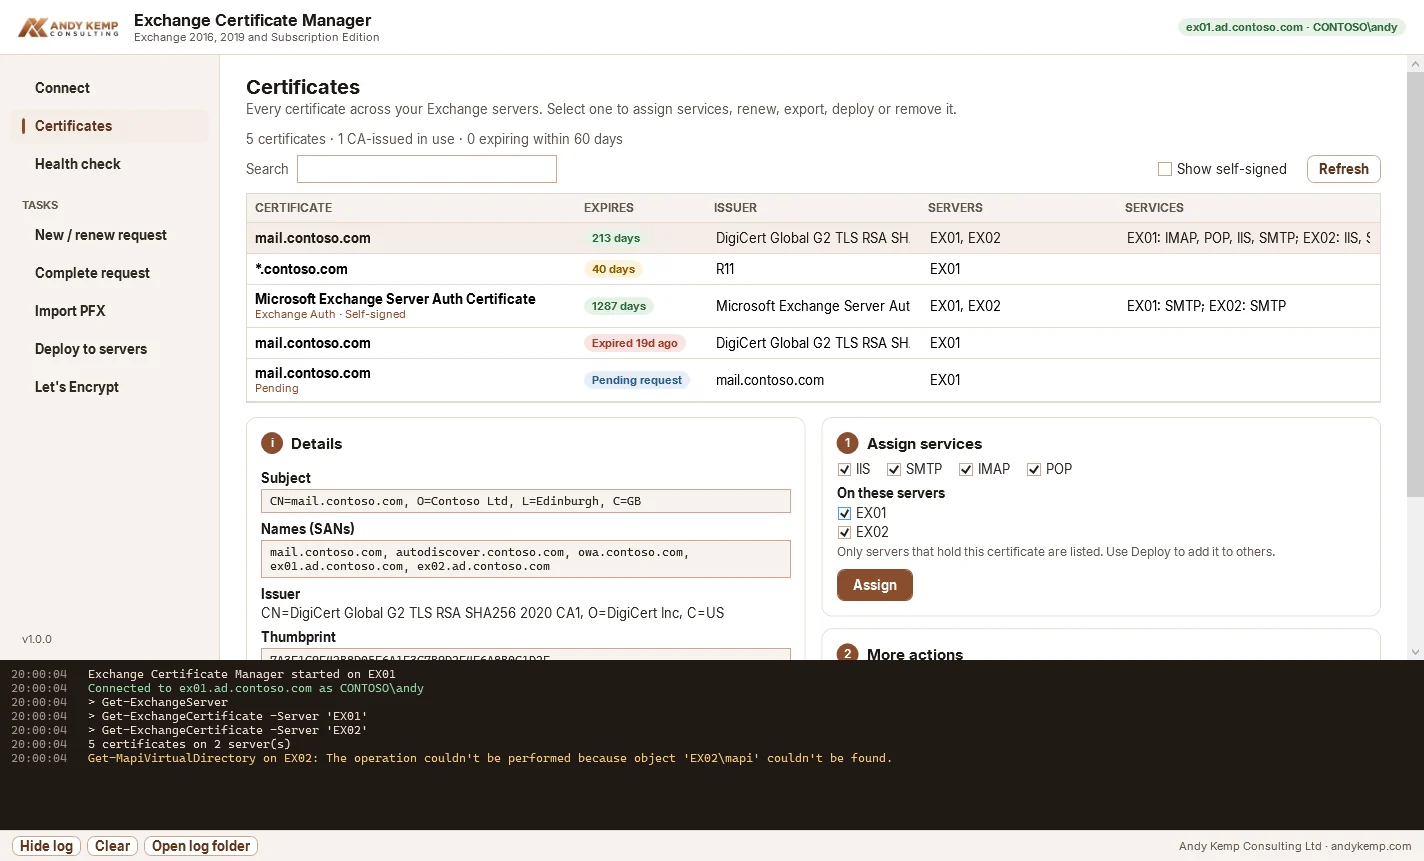
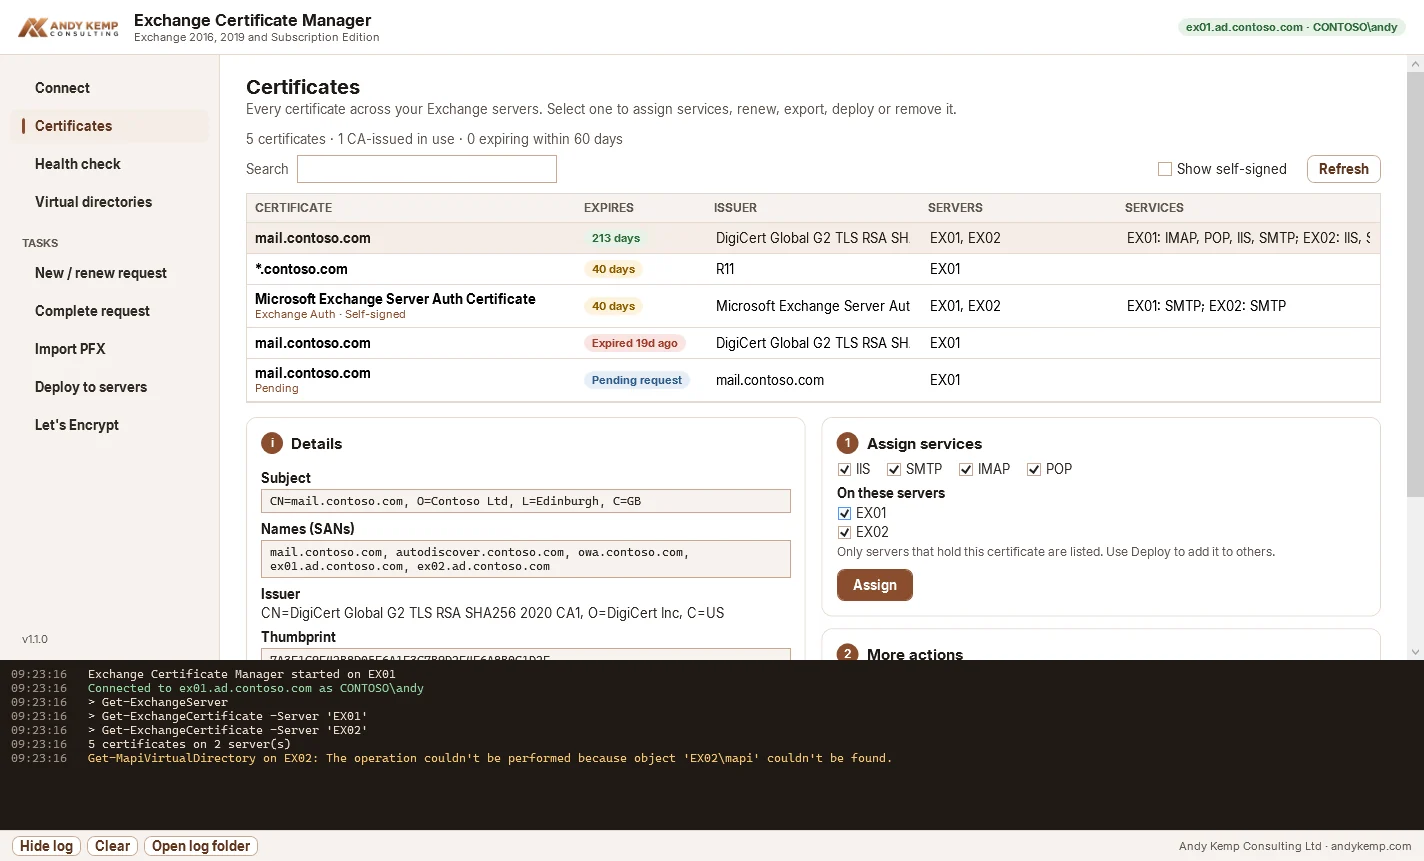
README: v1.1 screenshots and features
Claude-Session: https://claude.ai/code/session_01KiE5Do7reB3Uta9CMD2Ea9

diff --git a/README.md b/README.md
@@ -14,16 +14,17 @@ Docs: [docs.andykemp.com/exchange-cert-manager](https://docs.andykemp.com/exchan
 |---|---|
 | **Connect** | Kerberos sign-in as your current Windows account (or another account). Detects when it's running on an Exchange server and pre-fills it. Works from a domain-joined admin machine too. |
 | **Certificates** | Every certificate across every Exchange server, grouped by thumbprint: names, issuer, expiry, which servers hold it and which services each has. Assign services, renew, export PFX, deploy or remove. |
-| **Health check** | Expiring certificates in use, the **Exchange Auth (OAuth) certificate**, whether the IIS certificate's SANs cover every URL configured on the virtual directories / Outlook Anywhere / Autodiscover, connectors whose `TlsCertificateName` points at a certificate that's gone (the classic hybrid break), servers missing a certificate the others have, and clean-up candidates. |
+| **Health check** | Expiring certificates in use, the **Exchange Auth (OAuth) certificate**, whether the IIS certificate's SANs cover every URL configured on the virtual directories / Outlook Anywhere / Autodiscover, connectors whose `TlsCertificateName` points at a certificate that's gone (the classic hybrid break), servers missing a certificate the others have, and clean-up candidates. One-click fixes: renew the Auth certificate (staged 49 hours, as Microsoft recommends), clear the previous one, and update a connector's `TlsCertificateName`. |
+| **Virtual directories** | Every internal and external URL on every server (OWA, ECP, EWS, ActiveSync, OAB, MAPI, Outlook Anywhere, Autodiscover SCP). Set one namespace with a command preview and a certificate coverage check. The PowerShell vdir is never touched. |
 | **New / renew request** | Creates the key on the server and gives you the CSR. "Suggest from Exchange URLs" fills the names in from your configuration. Renew from the Certificates page keeps the same names. |
 | **Complete request** | Imports the CA's response on the server with the pending request, assigns services and copies it to the other servers in one step. |
 | **Import PFX** | Install a certificate you already have as a .pfx. Checks the file locally first (names, expiry, private key, password) then imports and assigns it on the servers you pick. |
 | **Deploy to servers** | Exports once, imports on every server that doesn't have it, assigns the same services everywhere. Shows a summary before it does anything. |
 | **Let's Encrypt** | HTTP-01 (writes the challenge to every server's Default Web Site, so it works behind a load balancer) or manual DNS-01 for wildcards. Installs and assigns the certificate, and registers a daily scheduled task that renews within 30 days of expiry. |
 
-| Health check | Let's Encrypt |
+| Health check | Virtual directories |
 |---|---|
-| ![Health check](docs/screenshots/health.webp) | ![Let's Encrypt](docs/screenshots/lets-encrypt.webp) |
+| ![Health check](docs/screenshots/health.webp) | ![Virtual directories](docs/screenshots/virtual-directories.webp) |
 
 Everything is logged to the panel at the bottom and to `C:\ExchangeCertManager\Logs`.
 
